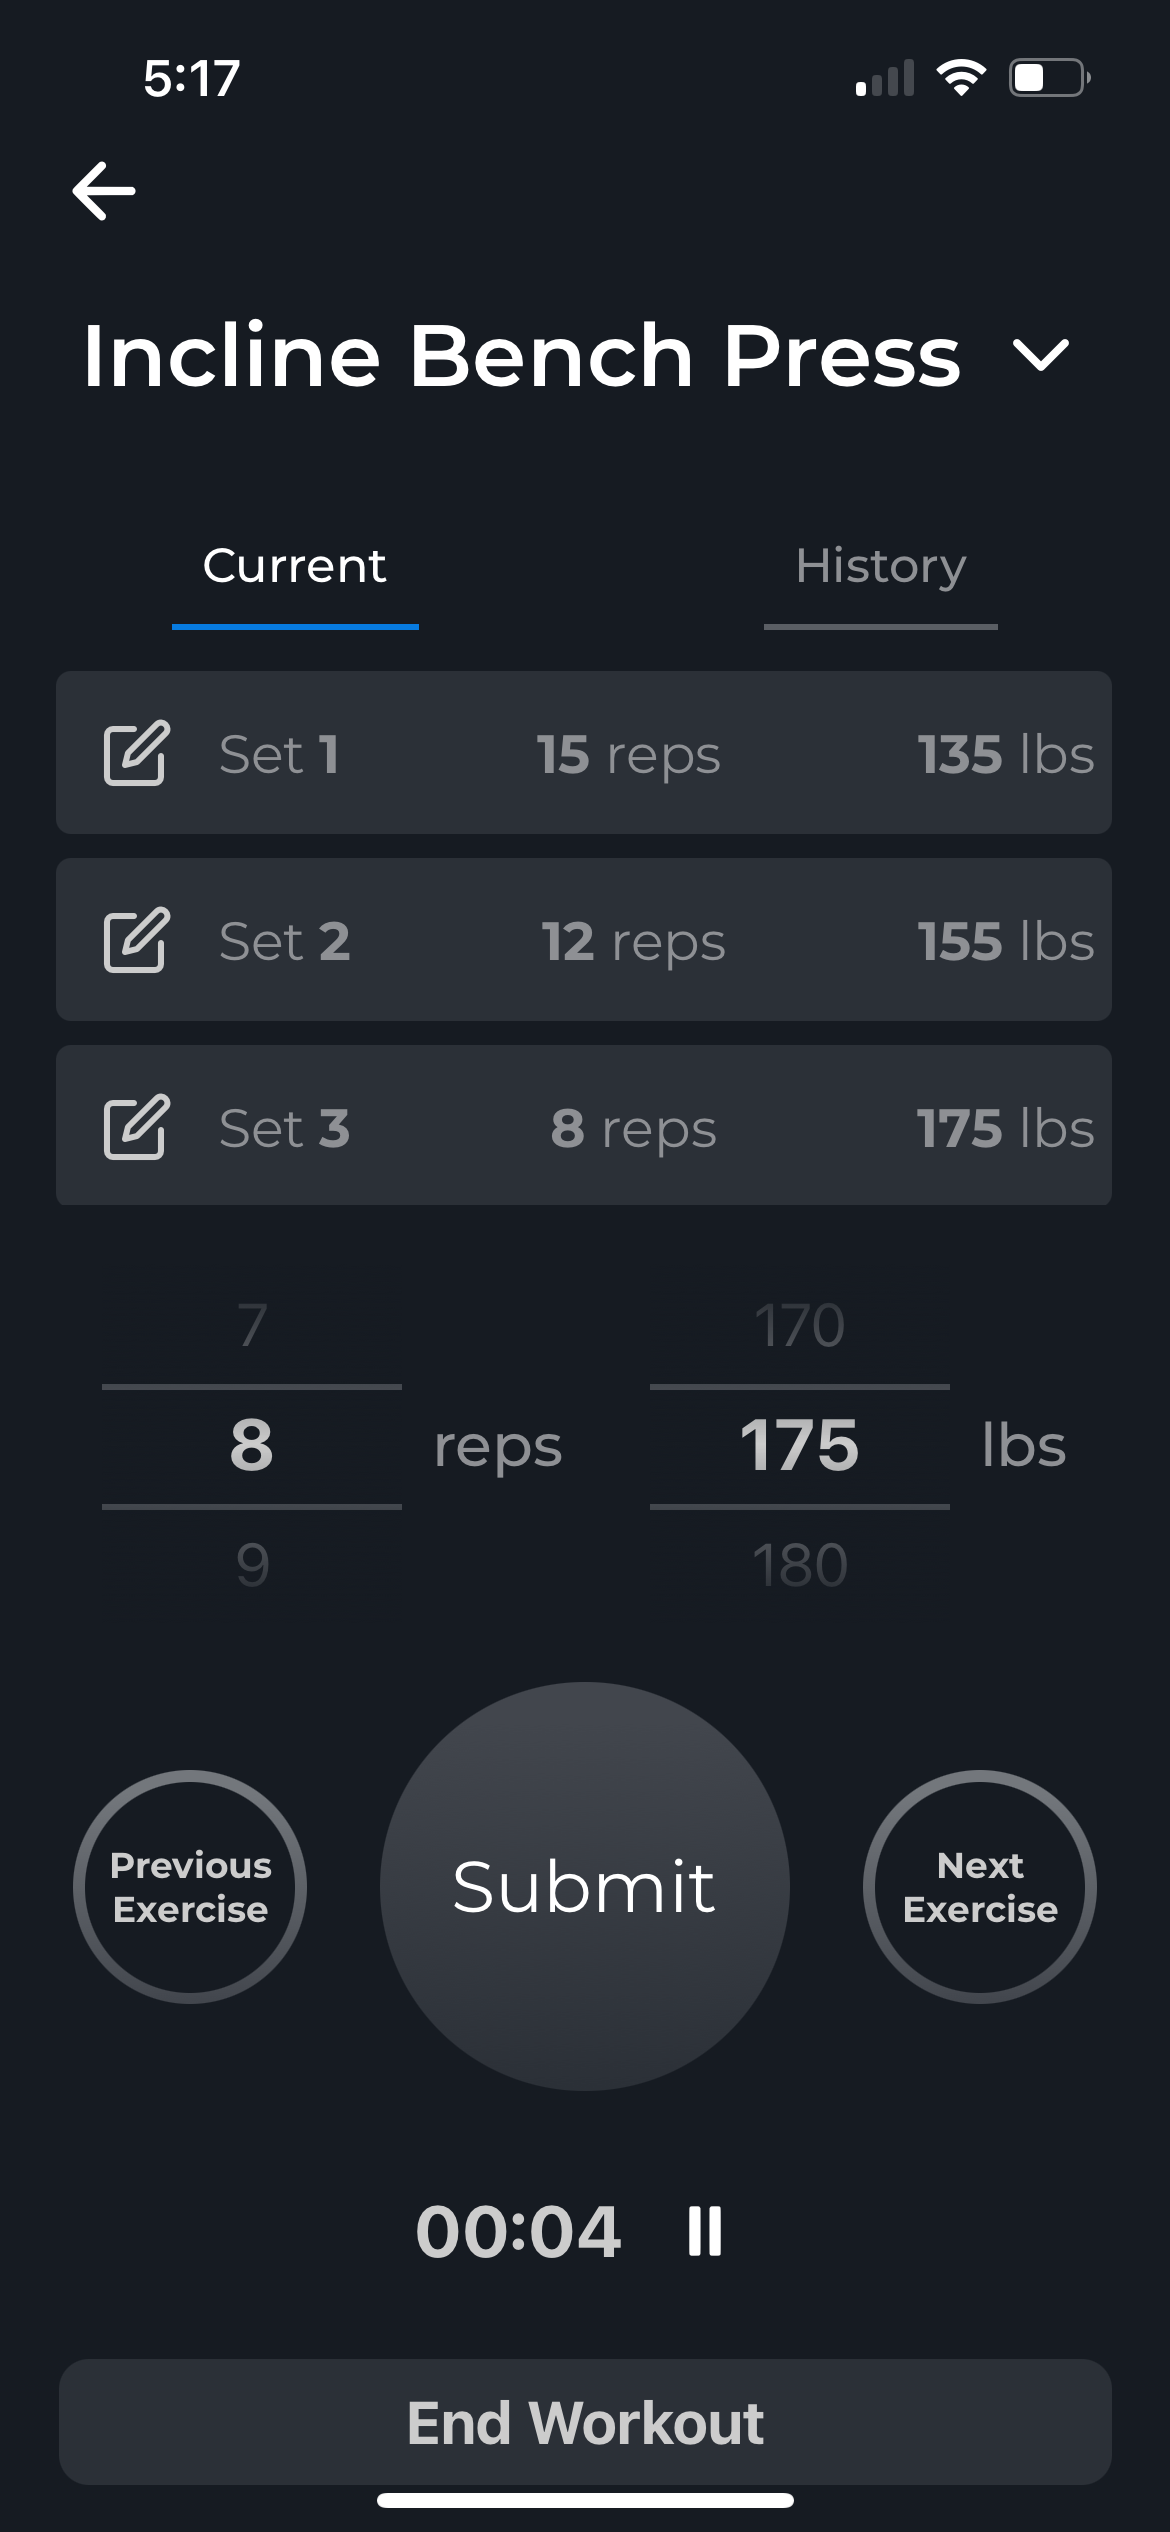
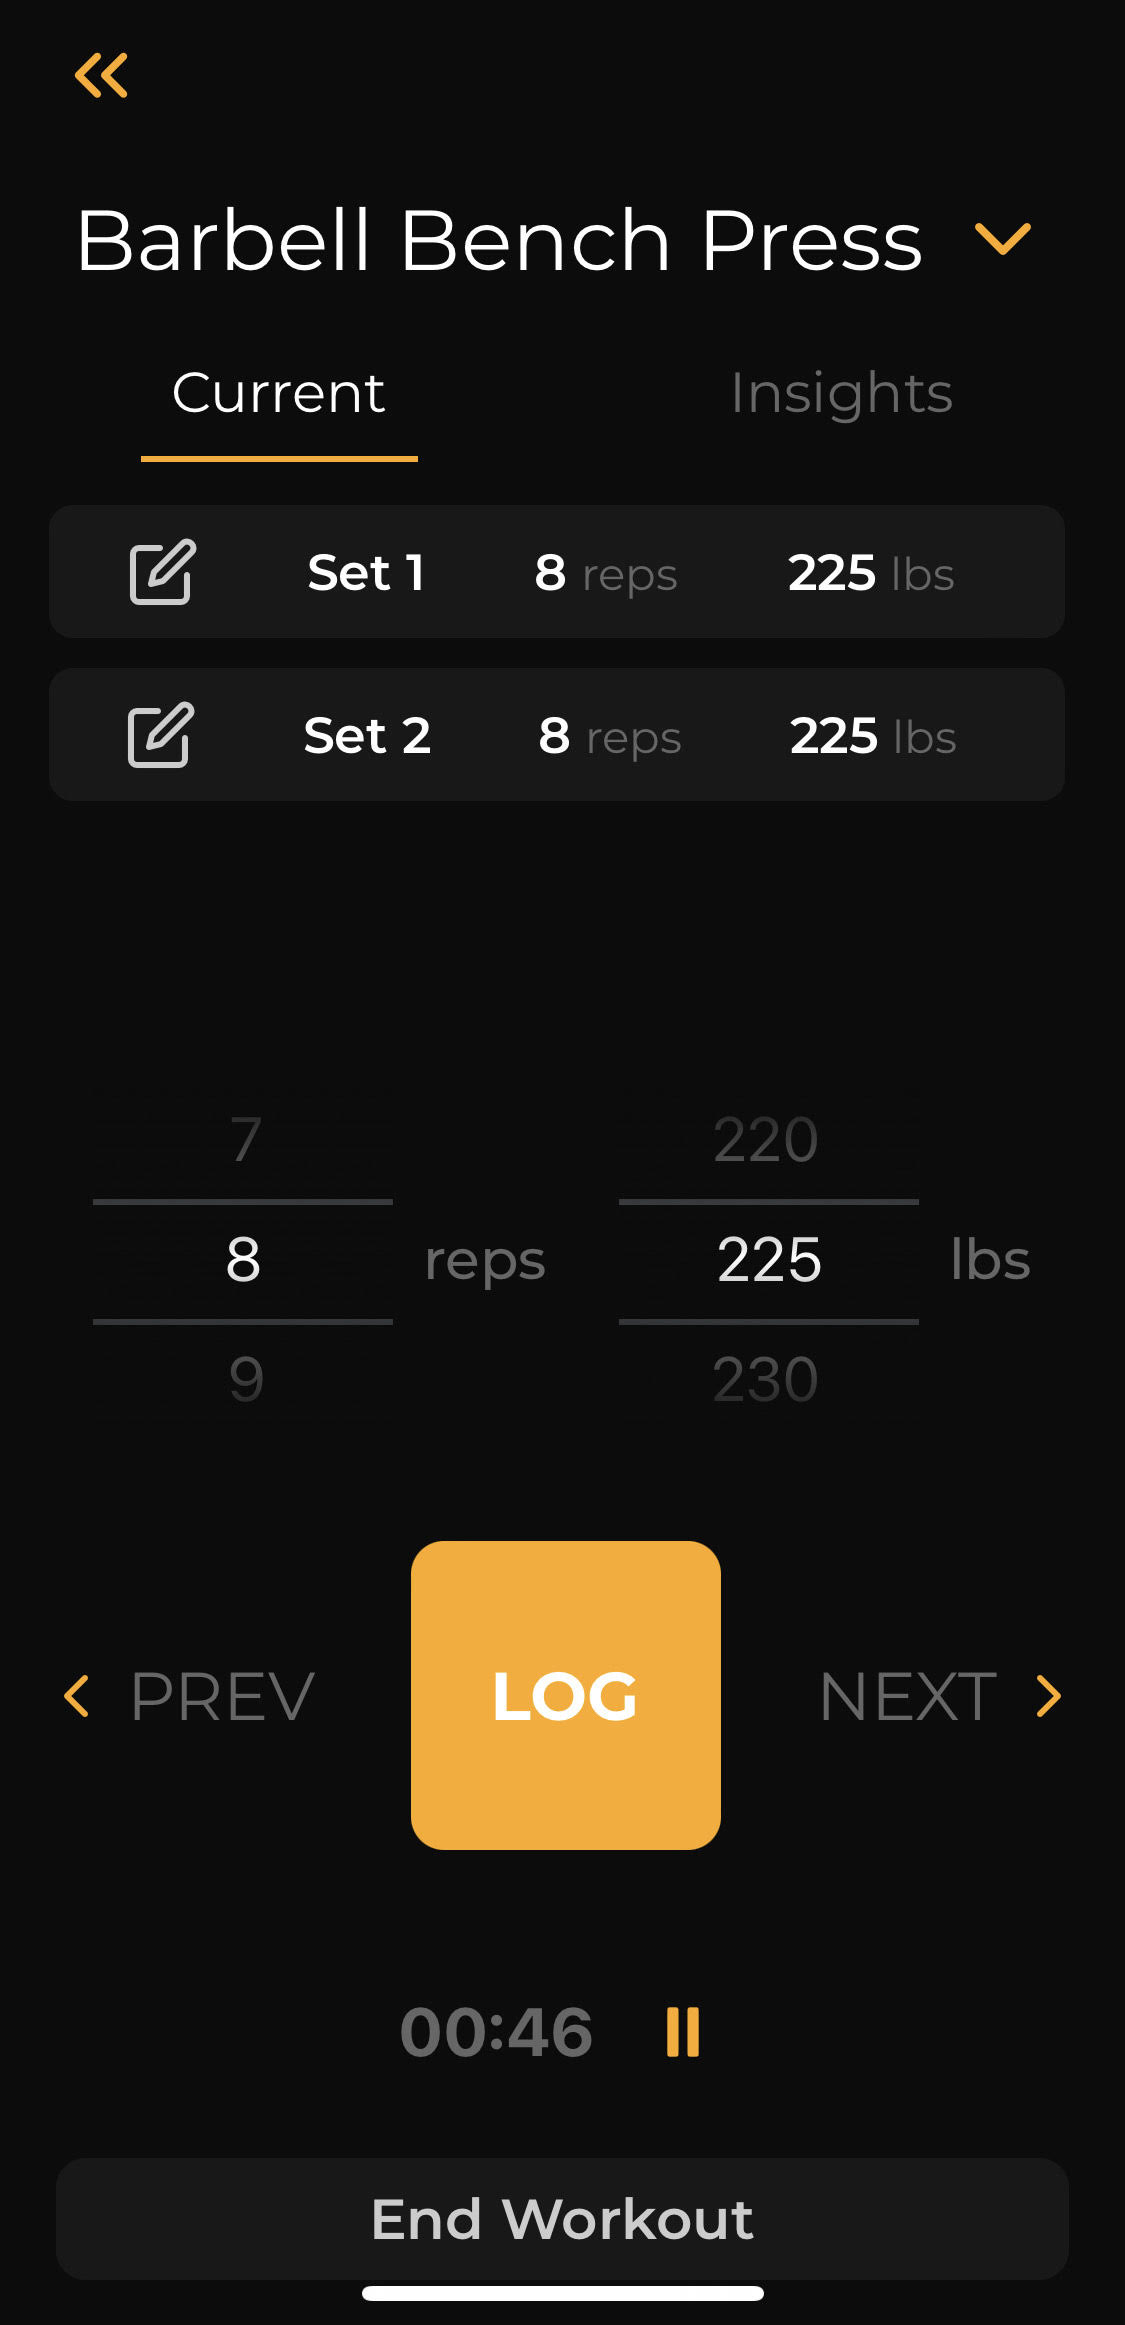
updated to BuffBuddy, upated images and some content alignment

diff --git a/assets/css/main.css b/assets/css/main.css
@@ -2753,18 +2753,19 @@ input, select, textarea {
 		margin: 0 0 2em 0;
 	}
 
-		.spotlight .image {
-			width: 30%;
-			border-radius: 100%;
-			margin: 0 3em 0 0;
-			display: block;
-		}
+	.spotlight .image {
+	width: 30%;
+	aspect-ratio: 1 / 1;     /* forces a square box */
+	border-radius: 50%;
+	overflow: hidden;         /* hides any overflow after rounding */
+	}
 
-			.spotlight .image img {
-				display: block;
-				border-radius: 100%;
-				width: 100%;
-			}
+		.spotlight .image img {
+		width: 100%;
+		height: 100%;
+		object-fit: cover;        /* fills the square without squishing */
+		border-radius: 50%;       /* optional (container already rounded) */
+		}
 
 		.spotlight .content {
 			width: 70%;

diff --git a/terms.html b/terms.html
@@ -1,7 +1,7 @@
 <!DOCTYPE HTML>
 <html>
 <head>
-    <title>BulkBuddy</title>
+    <title>BuffBuddy</title>
     <meta charset="utf-8" />
     <meta name="viewport" content="width=device-width, initial-scale=1, user-scalable=no" />
     <link rel="stylesheet" href="assets/css/main.css" />
@@ -17,7 +17,7 @@
             <ol>
                 <li>
                     <strong>Introduction</strong>
-                    <p>Welcome to BulkBuddy ("we," "us," or "our"). By downloading or using our mobile application ("App"), you agree to comply with and be bound by these Terms and Conditions ("Terms"). Please read these Terms carefully. If you do not agree to these Terms, do not use the App.</p>
+                    <p>Welcome to BuffBuddy ("we," "us," or "our"). By downloading or using our mobile application ("App"), you agree to comply with and be bound by these Terms and Conditions ("Terms"). Please read these Terms carefully. If you do not agree to these Terms, do not use the App.</p>
                 </li>
                 <li>
                     <strong>Use of the App</strong>
@@ -46,7 +46,7 @@
                 </li>
                 <li>
                     <strong>Intellectual Property</strong>
-                    <p>All content, features, and functionality within the App, including text, graphics, logos, icons, and images, are the property of BulkBuddy or its licensors and are protected by copyright, trademark, and other intellectual property laws. You may not use, copy, or distribute any content from the App without our prior written permission.</p>
+                    <p>All content, features, and functionality within the App, including text, graphics, logos, icons, and images, are the property of BuffBuddy or its licensors and are protected by copyright, trademark, and other intellectual property laws. You may not use, copy, or distribute any content from the App without our prior written permission.</p>
                 </li>
                 <li>
                     <strong>Third-Party Services</strong>
@@ -62,15 +62,15 @@
                 </li>
                 <li>
                     <strong>Data Security</strong>
-                    <p>We take reasonable measures to protect your data. BulkBuddy uses Firebase’s authentication and storage solutions, which include encryption practices that secure user passwords and data in transit. While we take these precautions, it is essential that you maintain the confidentiality of your account details.</p>
+                    <p>We take reasonable measures to protect your data. BuffBuddy uses Firebase’s authentication and storage solutions, which include encryption practices that secure user passwords and data in transit. While we take these precautions, it is essential that you maintain the confidentiality of your account details.</p>
                 </li>
                 <li>
                     <strong>Limitation of Liability</strong>
-                    <p>To the fullest extent permitted by law, BulkBuddy and its affiliates, officers, employees, agents, and partners shall not be liable for any indirect, incidental, special, consequential, or punitive damages, including loss of data, use, goodwill, or other intangible losses arising from your use or inability to use the App.</p>
+                    <p>To the fullest extent permitted by law, BuffBuddy and its affiliates, officers, employees, agents, and partners shall not be liable for any indirect, incidental, special, consequential, or punitive damages, including loss of data, use, goodwill, or other intangible losses arising from your use or inability to use the App.</p>
                 </li>
                 <li>
                     <strong>Indemnification</strong>
-                    <p>You agree to indemnify and hold harmless BulkBuddy and its affiliates, officers, employees, and agents from any claims, liabilities, damages, losses, and expenses arising from your use of the App, violation of these Terms, or infringement of any rights of another.</p>
+                    <p>You agree to indemnify and hold harmless BuffBuddy and its affiliates, officers, employees, and agents from any claims, liabilities, damages, losses, and expenses arising from your use of the App, violation of these Terms, or infringement of any rights of another.</p>
                 </li>
                 <li>
                     <strong>Dispute Resolution</strong>

diff --git a/index.html b/index.html
@@ -1,7 +1,7 @@
 <!DOCTYPE HTML>
 <html>
 <head>
-    <title>BulkBuddy</title>
+    <title>BuffBuddy</title>
     <meta charset="utf-8" />
     <meta name="viewport" content="width=device-width, initial-scale=1, user-scalable=no" />
     <link rel="stylesheet" href="assets/css/main.css" />
@@ -12,7 +12,7 @@
     <!-- Header -->
     <header id="header">
         <div class="content">
-            <h1><a href="#">BulkBuddy</a></h1>
+            <h1><a href="#">BuffBuddy</a></h1>
             <p>Track your progress, stay motivated,<br />and crush your fitness goals.</p>
             <ul class="actions">
                 <li><a href="#" class="button primary icon solid fa-download">Get Started for Free</a></li>
@@ -21,7 +21,7 @@
         </div>
         <div class="image phone">
             <div class="inner">
-                <img src="images/bb screenshot.jpg" alt="BulkBuddy App" />
+                <img src="images/bb screenshot.jpg" alt="BuffBuddy App" />
             </div>
         </div>
     </header>
@@ -30,7 +30,7 @@
     <section id="one" class="wrapper style2 special">
         <header class="major">
             <h2>Track. Lift. Dominate.</h2>
-            <p>With BulkBuddy, you can track every lift, record your PRs,<br />and analyze your progress with detailed stats.</p>
+            <p>With BuffBuddy, you can track every lift, record your PRs,<br />and analyze your progress with detailed stats.</p>
         </header>
         <ul class="icons major">
             <li><span class="icon solid fa-chart-line"><span class="label">Analyze</span></span></li>

diff --git a/privacy.html b/privacy.html
@@ -14,7 +14,7 @@
         <div class="inner">
             <h2>Privacy Policy</h2>
             <p><strong>Last updated: November 12, 2024</strong></p>
-            <p>Welcome to BulkBuddy ("we," "us," or "our"). This Privacy Policy describes how we collect, use, disclose, and safeguard your information when you use our mobile application ("App"). Please read this Privacy Policy carefully. If you do not agree with the terms of this Privacy Policy, please do not access the App.</p>
+            <p>Welcome to BuffBuddy ("we," "us," or "our"). This Privacy Policy describes how we collect, use, disclose, and safeguard your information when you use our mobile application ("App"). Please read this Privacy Policy carefully. If you do not agree with the terms of this Privacy Policy, please do not access the App.</p>
             <h3>1. Information We Collect</h3>
             <p><strong>Personal Data:</strong> When you create an account or use our App, we may collect personal information that you voluntarily provide to us, such as your name, email address, and any other information you choose to provide.</p>
             <p><strong>Usage Data:</strong> We may collect information automatically when you use the App, including but not limited to your workout logs, preferences, and interactions within the App.</p>